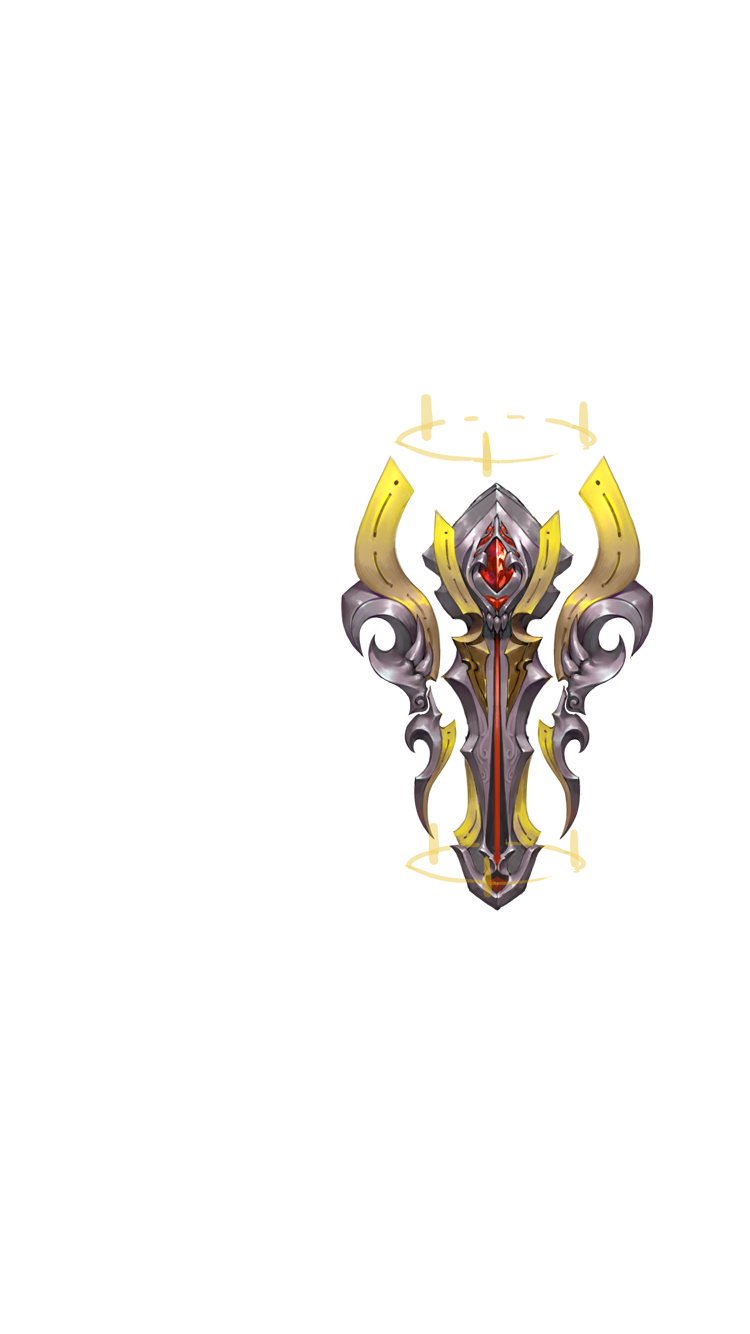
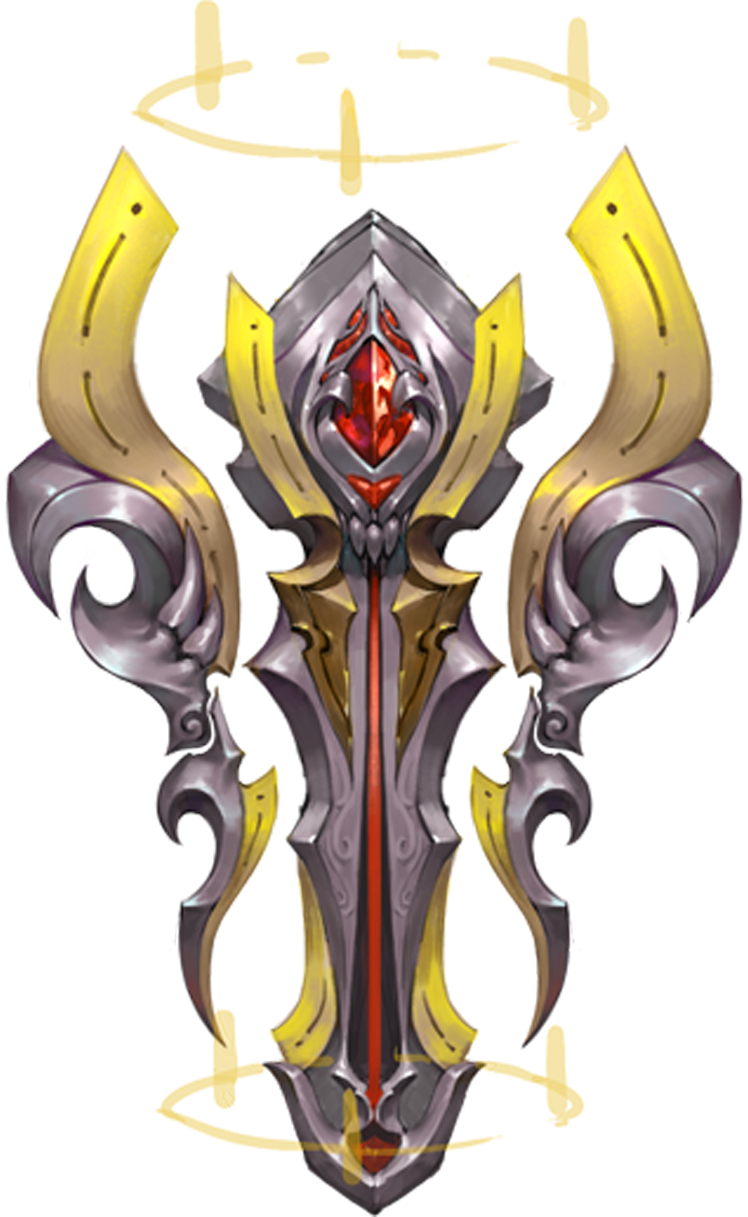
添加武器随机位置代码

diff --git a/dist/js/index.js b/dist/js/index.js
@@ -7,7 +7,8 @@
         oTrace = document.getElementById('trace'),
         traceCtx = document.getElementById('trace').getContext('2d'),
         traceStage = new createjs.Stage('trace'),
-        isPause = false
+        isPause = false,
+        scaleRate = 1
 
     ARPhoto.roleInfo = {}
 
@@ -44,7 +45,9 @@
 
     // dom operation
     ARPhoto.domOperation = function () {
-        var oBtnShuffer = document.getElementById('btnShutter'),
+        var oTraceBtns = document.getElementById('traceBtns'),
+            oResultBtns = document.getElementById('resultBtns'),
+            oBtnShuffer = document.getElementById('btnShutter'),
             oBtnRedo = document.getElementById('btnRedo'),
             oBtnShareFB = document.getElementById('btnShareFB')
 
@@ -162,11 +165,54 @@
 
         _img.onload = function () {
             var img = new createjs.Bitmap(_img.src),
-                imgBounds = img.getBounds()
+                imgBounds = img.getBounds(),
+                scaleRate = 0.7,
+                scale = 1,
+                realW = 0,
+                realH = 0,
+                gapW = (oVideo.videoWidth - window.innerWidth) / 2,
+                gapH = (oVideo.videoHeight - window.innerHeight) / 2,
+                randomL = 0,
+                randomT = 0
 
             _this.roleInfo.role = img
             _this.roleInfo.initW = imgBounds.width
             _this.roleInfo.initH = imgBounds.height
+
+            switch (ARPhoto.getUrlParam('id')) {
+                case '6':
+                    scaleRate = 0.6
+                    break
+            }
+
+            if (ARPhoto.getUrlParam('id') !== '1' && ARPhoto.getUrlParam('id') !== '5' && ARPhoto.getUrlParam('id') !== '6') {
+                scale = window.innerWidth / imgBounds.width
+                realW = imgBounds.width * scale
+                realH = imgBounds.height * scale
+                img.set({
+                    x: (oVideo.videoWidth - realW) / 2,
+                    y: (oVideo.videoHeight - realH) / 2,
+                    scaleX: scale,
+                    scaleY: scale
+                })
+            } else {
+                scale = window.innerWidth / imgBounds.width * scaleRate
+                if (imgBounds.height * scale > window.innerHeight) {
+                    scale = window.innerHeight / imgBounds.height * scaleRate
+                }
+                realW = imgBounds.width * scale
+                realH = imgBounds.height * scale
+                randomL = Math.random() * (oVideo.videoWidth - gapW * 2 - realW) + gapW
+                randomT = Math.random() * (oVideo.videoHeight - gapH * 2 - realH) + gapH
+
+                img.set({
+                    x: randomL,
+                    y: randomT,
+                    scaleX: scale,
+                    scaleY: scale
+                })
+            }
+
             traceStage.addChild(img)
             traceStage.addChildAt(img, 1)
             _this.draw()
@@ -175,19 +221,7 @@
 
     // canvas drawing loop
     ARPhoto.draw = function () {
-        var scale = window.innerWidth / this.roleInfo.initW,
-            roleRealW = window.innerWidth,
-            roleRealH = this.roleInfo.initH * scale,
-            roleL = (oVideo.videoWidth - window.innerWidth) / 2,
-            roleT = 0
-
         var loop = this.requestAnimationFrame(ARPhoto.draw.bind(this))
-        this.roleInfo.role.set({
-            x: roleL,
-            y: roleT,
-            scaleX: scale,
-            scaleY: scale
-        })
 
         if (isPause) {
             var img = new createjs.Bitmap(oVideo)
@@ -210,7 +244,7 @@
 
     // init
     ARPhoto.init = function () {
-        // var _this = this
+        var _this = this
         this.enumerateDevices()
         // var timer = setInterval(function () {
         //     if (oVideo.readyState === oVideo.HAVE_ENOUGH_DATA && oVideo.videoWidth > 0) {

diff --git a/wwwroot/js/index.js b/wwwroot/js/index.js
@@ -7,7 +7,8 @@
         oTrace = document.getElementById('trace'),
         traceCtx = document.getElementById('trace').getContext('2d'),
         traceStage = new createjs.Stage('trace'),
-        isPause = false
+        isPause = false,
+        scaleRate = 1
 
     ARPhoto.roleInfo = {}
 
@@ -44,7 +45,9 @@
 
     // dom operation
     ARPhoto.domOperation = function () {
-        var oBtnShuffer = document.getElementById('btnShutter'),
+        var oTraceBtns = document.getElementById('traceBtns'),
+            oResultBtns = document.getElementById('resultBtns'),
+            oBtnShuffer = document.getElementById('btnShutter'),
             oBtnRedo = document.getElementById('btnRedo'),
             oBtnShareFB = document.getElementById('btnShareFB')
 
@@ -162,11 +165,54 @@
 
         _img.onload = function () {
             var img = new createjs.Bitmap(_img.src),
-                imgBounds = img.getBounds()
+                imgBounds = img.getBounds(),
+                scaleRate = 0.7,
+                scale = 1,
+                realW = 0,
+                realH = 0,
+                gapW = (oVideo.videoWidth - window.innerWidth) / 2,
+                gapH = (oVideo.videoHeight - window.innerHeight) / 2,
+                randomL = 0,
+                randomT = 0
 
             _this.roleInfo.role = img
             _this.roleInfo.initW = imgBounds.width
             _this.roleInfo.initH = imgBounds.height
+
+            switch (ARPhoto.getUrlParam('id')) {
+                case '6':
+                    scaleRate = 0.6
+                    break
+            }
+
+            if (ARPhoto.getUrlParam('id') !== '1' && ARPhoto.getUrlParam('id') !== '5' && ARPhoto.getUrlParam('id') !== '6') {
+                scale = window.innerWidth / imgBounds.width
+                realW = imgBounds.width * scale
+                realH = imgBounds.height * scale
+                img.set({
+                    x: (oVideo.videoWidth - realW) / 2,
+                    y: (oVideo.videoHeight - realH) / 2,
+                    scaleX: scale,
+                    scaleY: scale
+                })
+            } else {
+                scale = window.innerWidth / imgBounds.width * scaleRate
+                if (imgBounds.height * scale > window.innerHeight) {
+                    scale = window.innerHeight / imgBounds.height * scaleRate
+                }
+                realW = imgBounds.width * scale
+                realH = imgBounds.height * scale
+                randomL = Math.random() * (oVideo.videoWidth - gapW * 2 - realW) + gapW
+                randomT = Math.random() * (oVideo.videoHeight - gapH * 2 - realH) + gapH
+
+                img.set({
+                    x: randomL,
+                    y: randomT,
+                    scaleX: scale,
+                    scaleY: scale
+                })
+            }
+
             traceStage.addChild(img)
             traceStage.addChildAt(img, 1)
             _this.draw()
@@ -175,19 +221,7 @@
 
     // canvas drawing loop
     ARPhoto.draw = function () {
-        var scale = window.innerWidth / this.roleInfo.initW,
-            roleRealW = window.innerWidth,
-            roleRealH = this.roleInfo.initH * scale,
-            roleL = (oVideo.videoWidth - window.innerWidth) / 2,
-            roleT = 0
-
         var loop = this.requestAnimationFrame(ARPhoto.draw.bind(this))
-        this.roleInfo.role.set({
-            x: roleL,
-            y: roleT,
-            scaleX: scale,
-            scaleY: scale
-        })
 
         if (isPause) {
             var img = new createjs.Bitmap(oVideo)
@@ -210,7 +244,7 @@
 
     // init
     ARPhoto.init = function () {
-        // var _this = this
+        var _this = this
         this.enumerateDevices()
         // var timer = setInterval(function () {
         //     if (oVideo.readyState === oVideo.HAVE_ENOUGH_DATA && oVideo.videoWidth > 0) {
